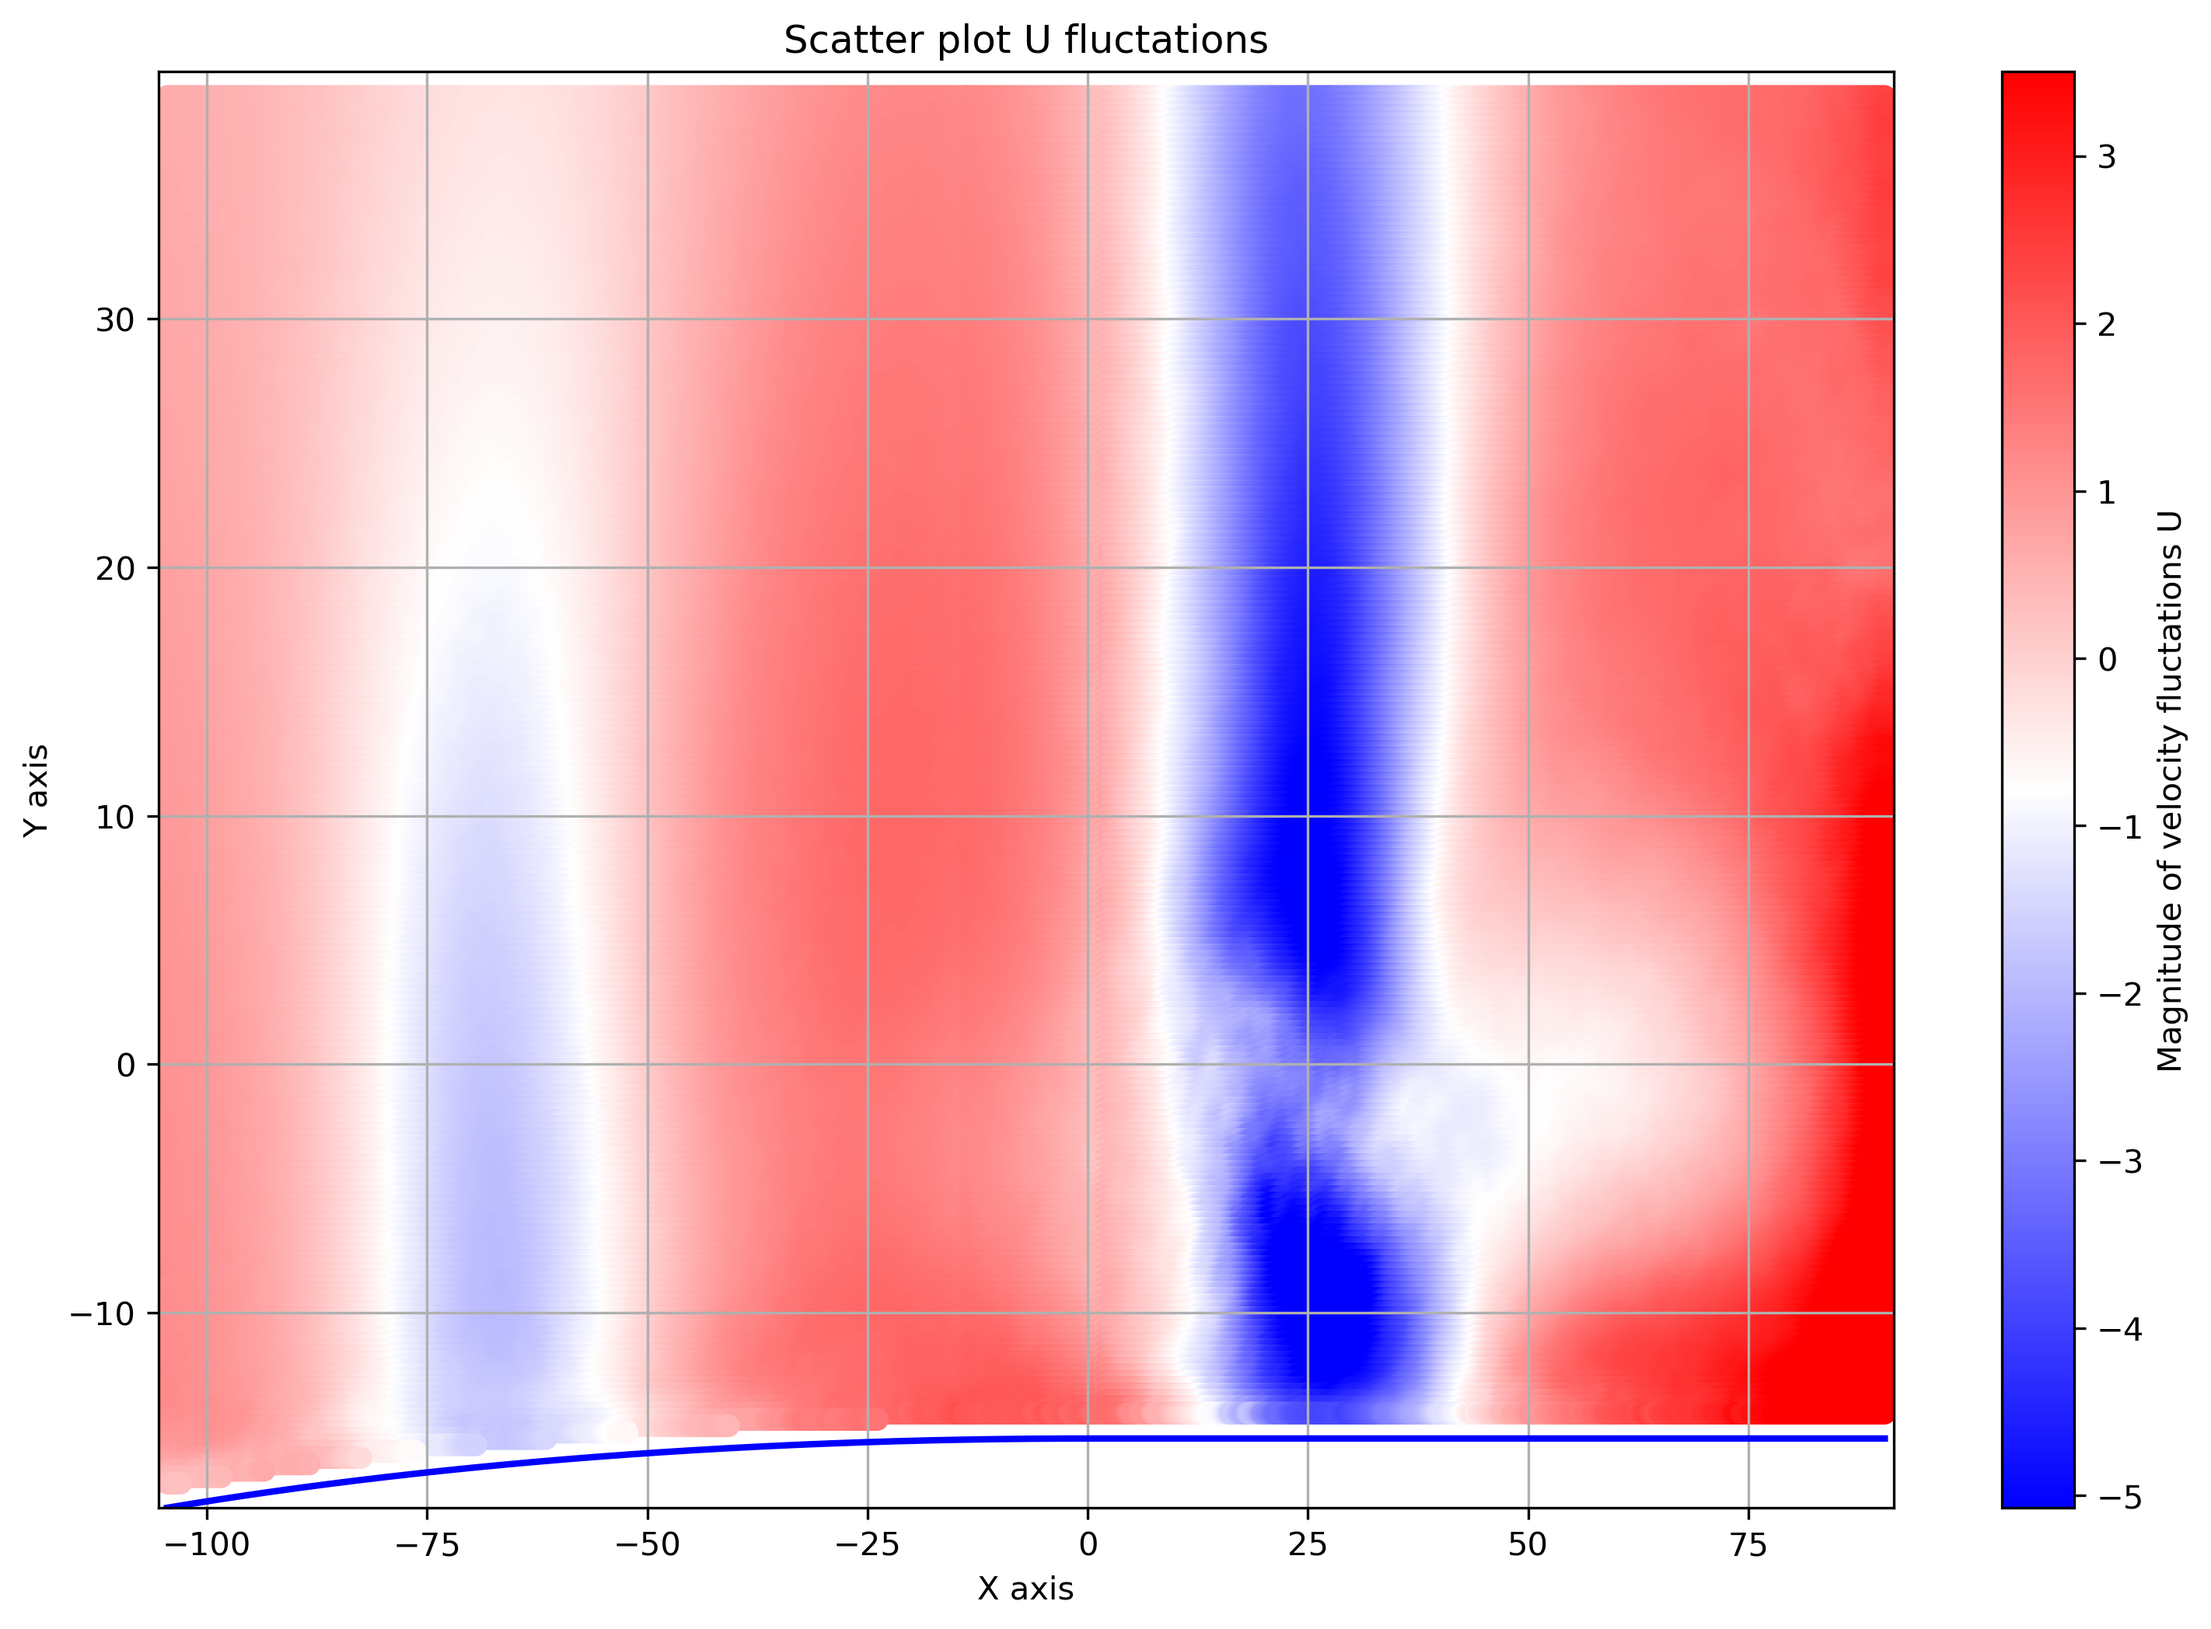
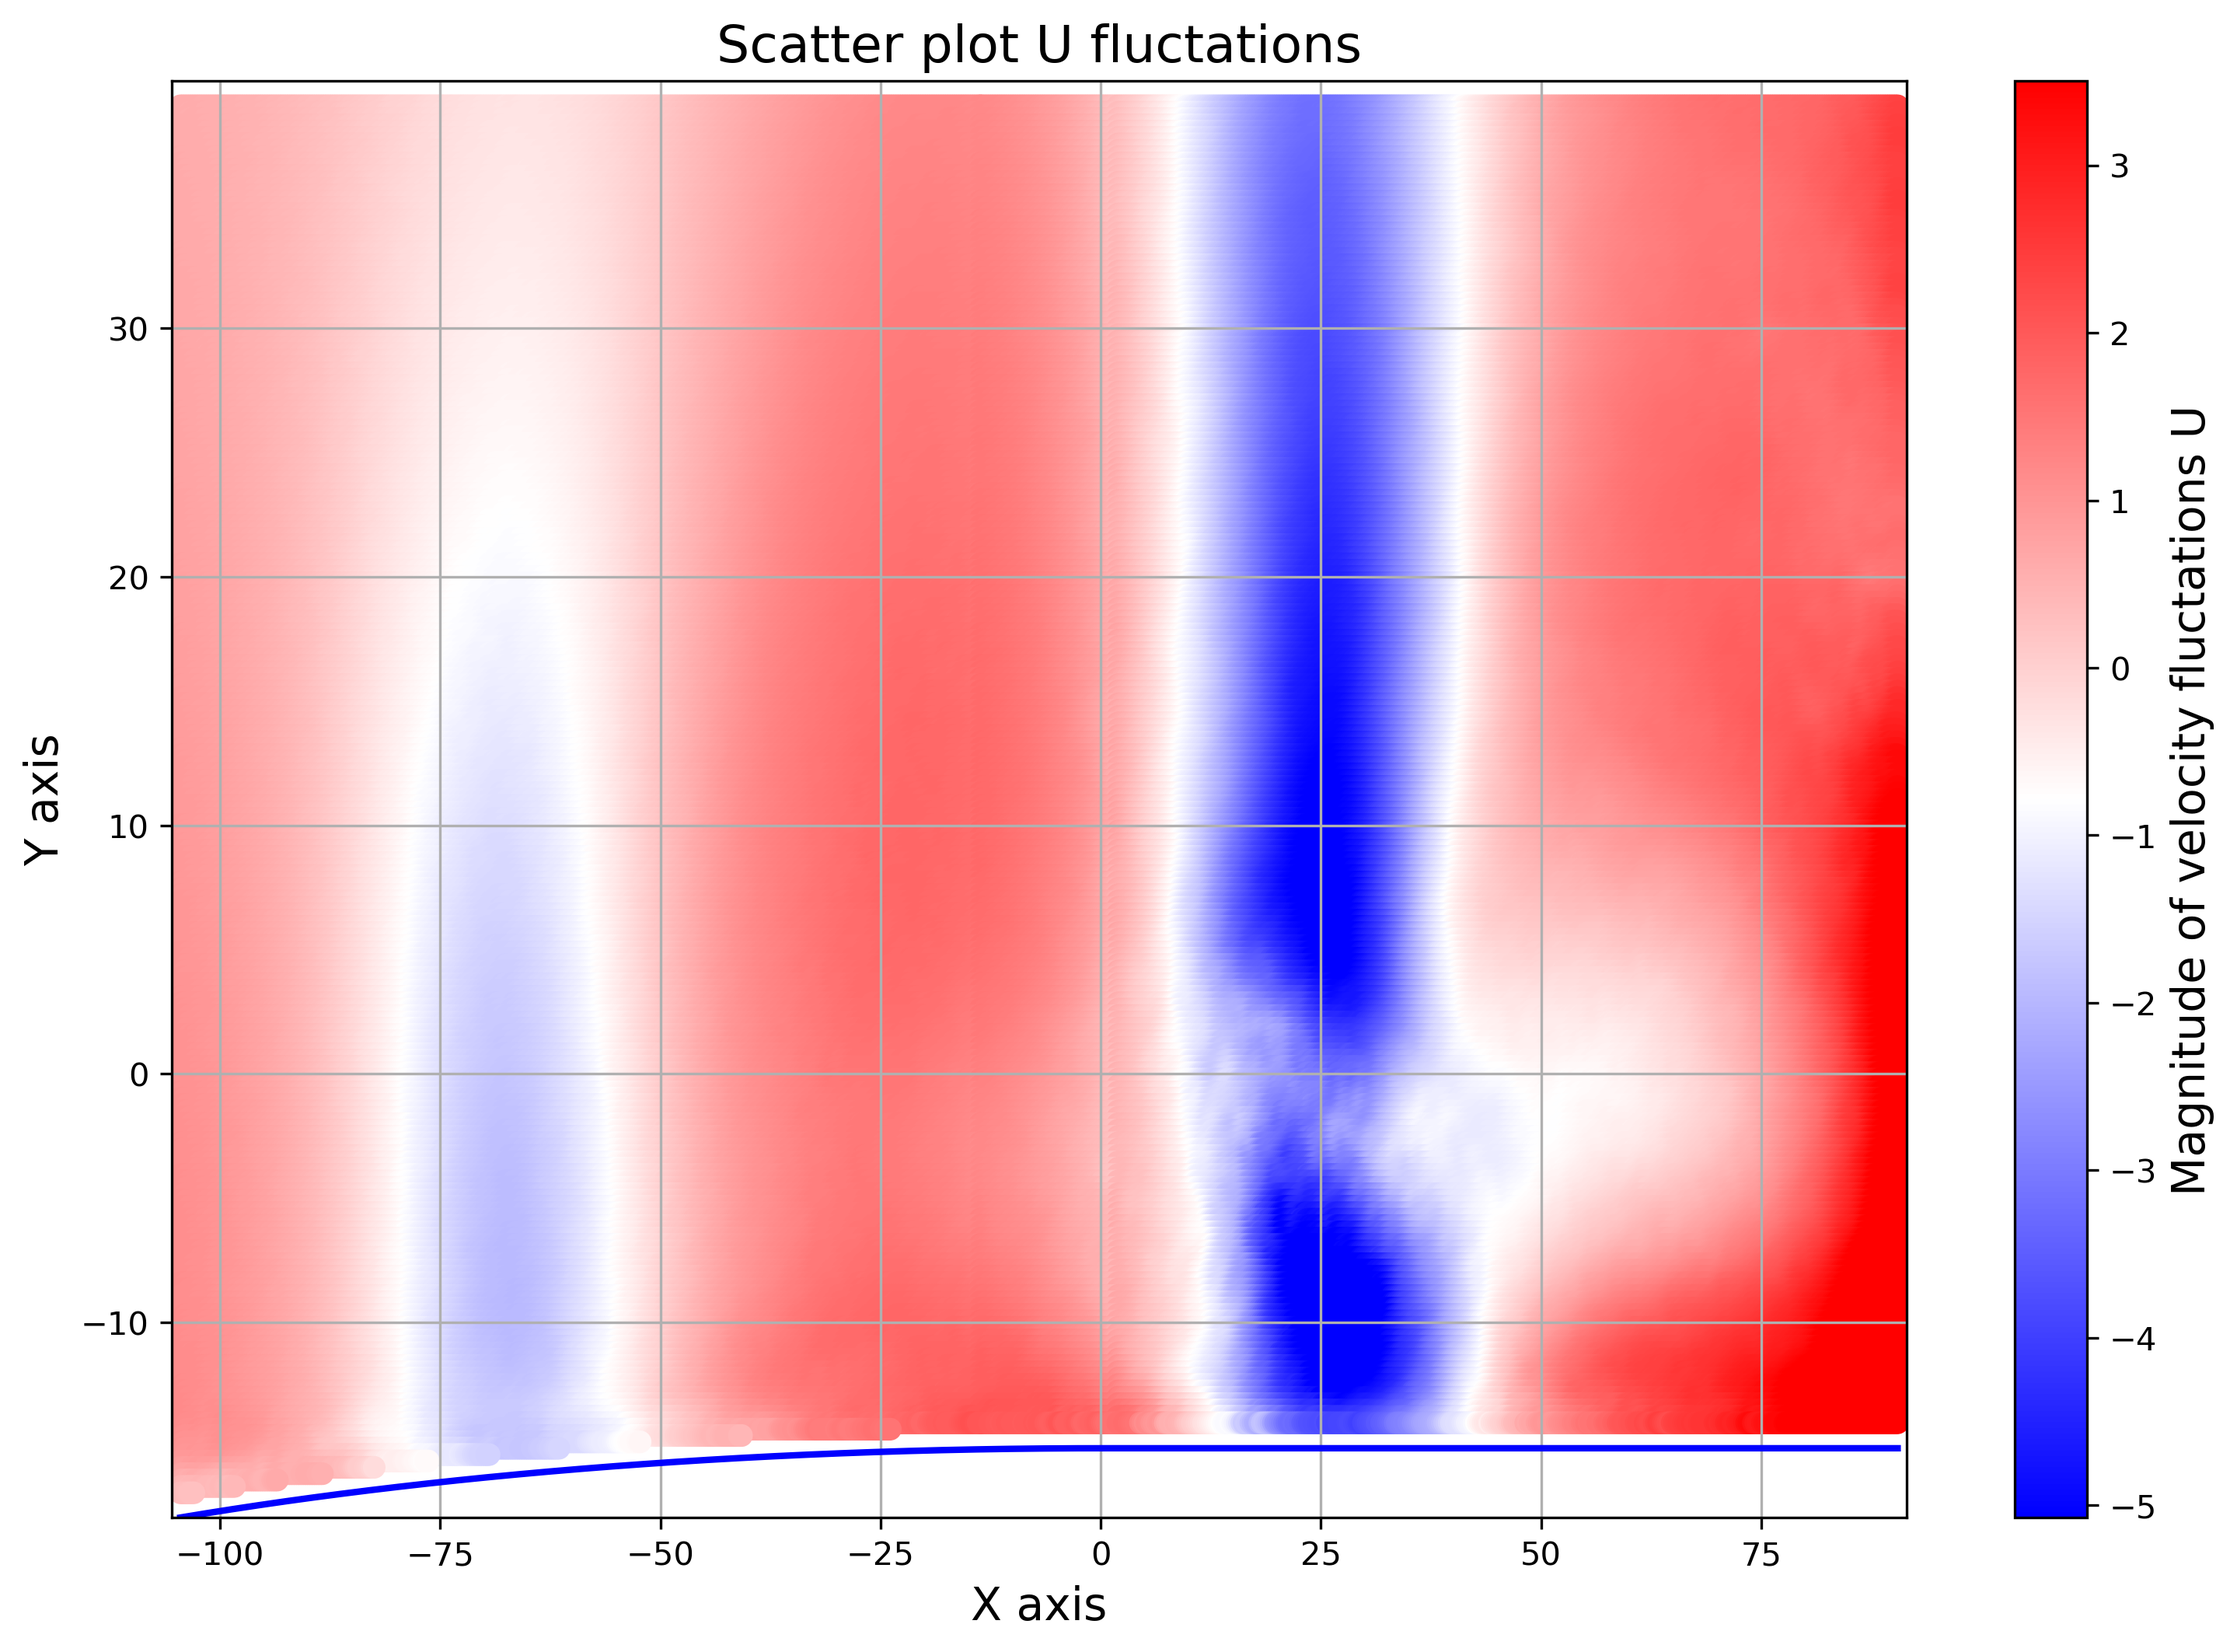
Bigger_text

diff --git a/main.py b/main.py
@@ -30,14 +30,14 @@ Planes=['C']#Add C
 
 for plane in Planes:
     print(plane)
-    for j in range(0,1): #ADD 0
-        average_U_arr, average_V_arr = average_values(1, 250, plane, j)
+    for j in range(1,2): #ADD 0
+        average_U_arr, average_V_arr = average_values(1, 2500, plane, j)
         print('ok')
          
-        average_U_arr, average_V_arr=interpol(average_U_arr, average_V_arr)
+        #average_U_arr, average_V_arr=interpol(average_U_arr, average_V_arr)
             
         
-        time_average_image(average_U_arr, average_V_arr, plane, j)
+        #time_average_image(average_U_arr, average_V_arr, plane, j)
         
         if j==0:
             print('no bins')
@@ -52,7 +52,7 @@ for plane in Planes:
                 error, u_magnitudes, v_magnitudes = bin_average_velocities(i, plane, j)
                 if error==0:
                     break
-                #Velocity_fluctuations_image(u_magnitudes, v_magnitudes, average_U_arr, average_V_arr, plane, j, i)
+                Velocity_fluctuations_image(u_magnitudes, v_magnitudes, average_U_arr, average_V_arr, plane, j, i)
                 # Turbulent kinetic energy
                 #Turbulent_kinetic_energy(plane, j, i)
                 #vector fields

diff --git a/Vorticity_image_gen.py b/Vorticity_image_gen.py
@@ -102,7 +102,7 @@ def Velocity_fluctuations_image(u_magnitudes, v_magnitudes, average_U_arr, avera
 
     # Plotting Vector Field with QUIVER and colormap
     ax.scatter(x_positions, y_positions, c=Velocity_fluctuations_u, cmap=cmap, norm=norm)
-    ax.set_title('Vector Field with Color Scale')
+    ax.set_title('Velocity fluctuations with Color Scale', fontsize=16)
 
     # Create a ScalarMappable object for colormap
     sm = ScalarMappable(cmap=cmap, norm=norm)
@@ -110,11 +110,11 @@ def Velocity_fluctuations_image(u_magnitudes, v_magnitudes, average_U_arr, avera
 
     # Add colorbar using the ScalarMappable object
     cbar = plt.colorbar(sm, ax=ax)
-    cbar.set_label('Magnitude of velocity fluctations U')
+    cbar.set_label('Magnitude of velocity fluctations U', fontsize=14)
     
-    ax.set_xlabel('X axis')
-    ax.set_ylabel('Y axis')
-    ax.set_title('Scatter plot U fluctations')
+    ax.set_xlabel('X axis', fontsize=14)
+    ax.set_ylabel('Y axis', fontsize=14)
+    ax.set_title('Scatter plot U fluctations', fontsize=16)
 
     # Setting x, y boundary limits
     ax.set_xlim(np.min(x_positions) - 1, np.max(x_positions) + 1)

diff --git a/positionfunction.py b/positionfunction.py
@@ -11,3 +11,9 @@ def position(plane, J_number):
     x_positions = positions[:, 0]
     y_positions = positions[:, 1]
     return x_positions, y_positions
+
+
+
+
+
+
